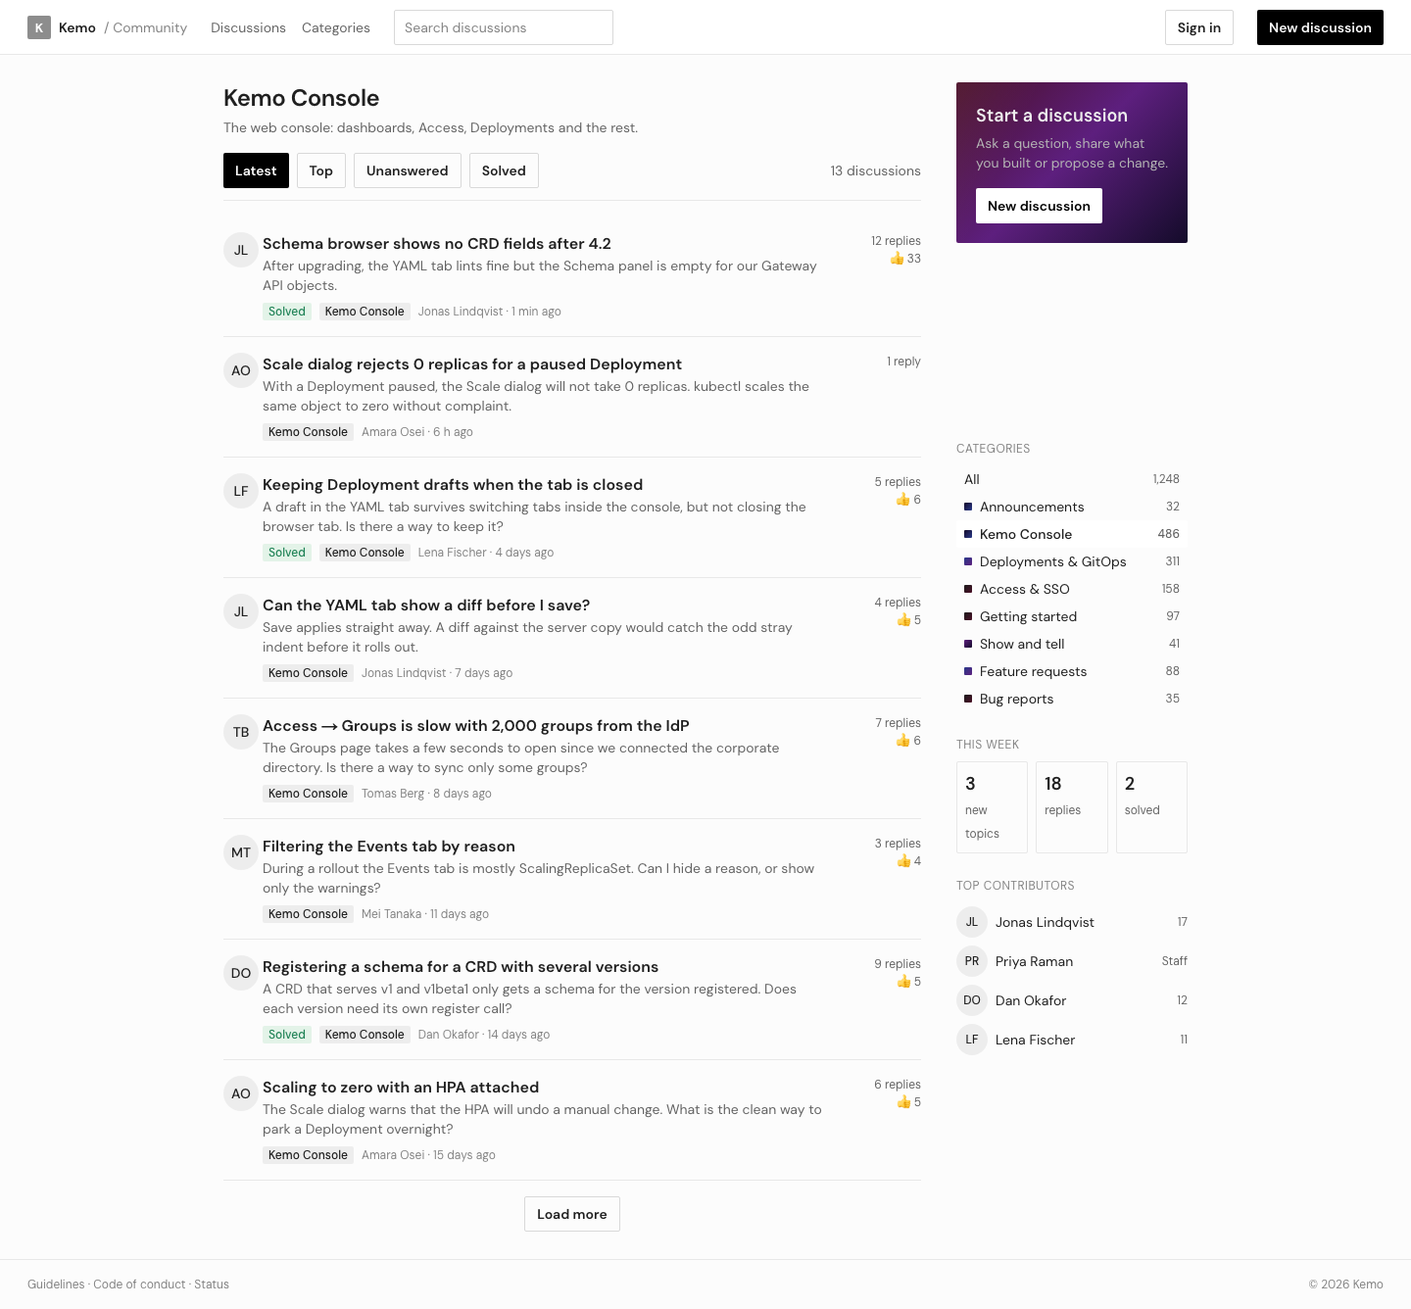
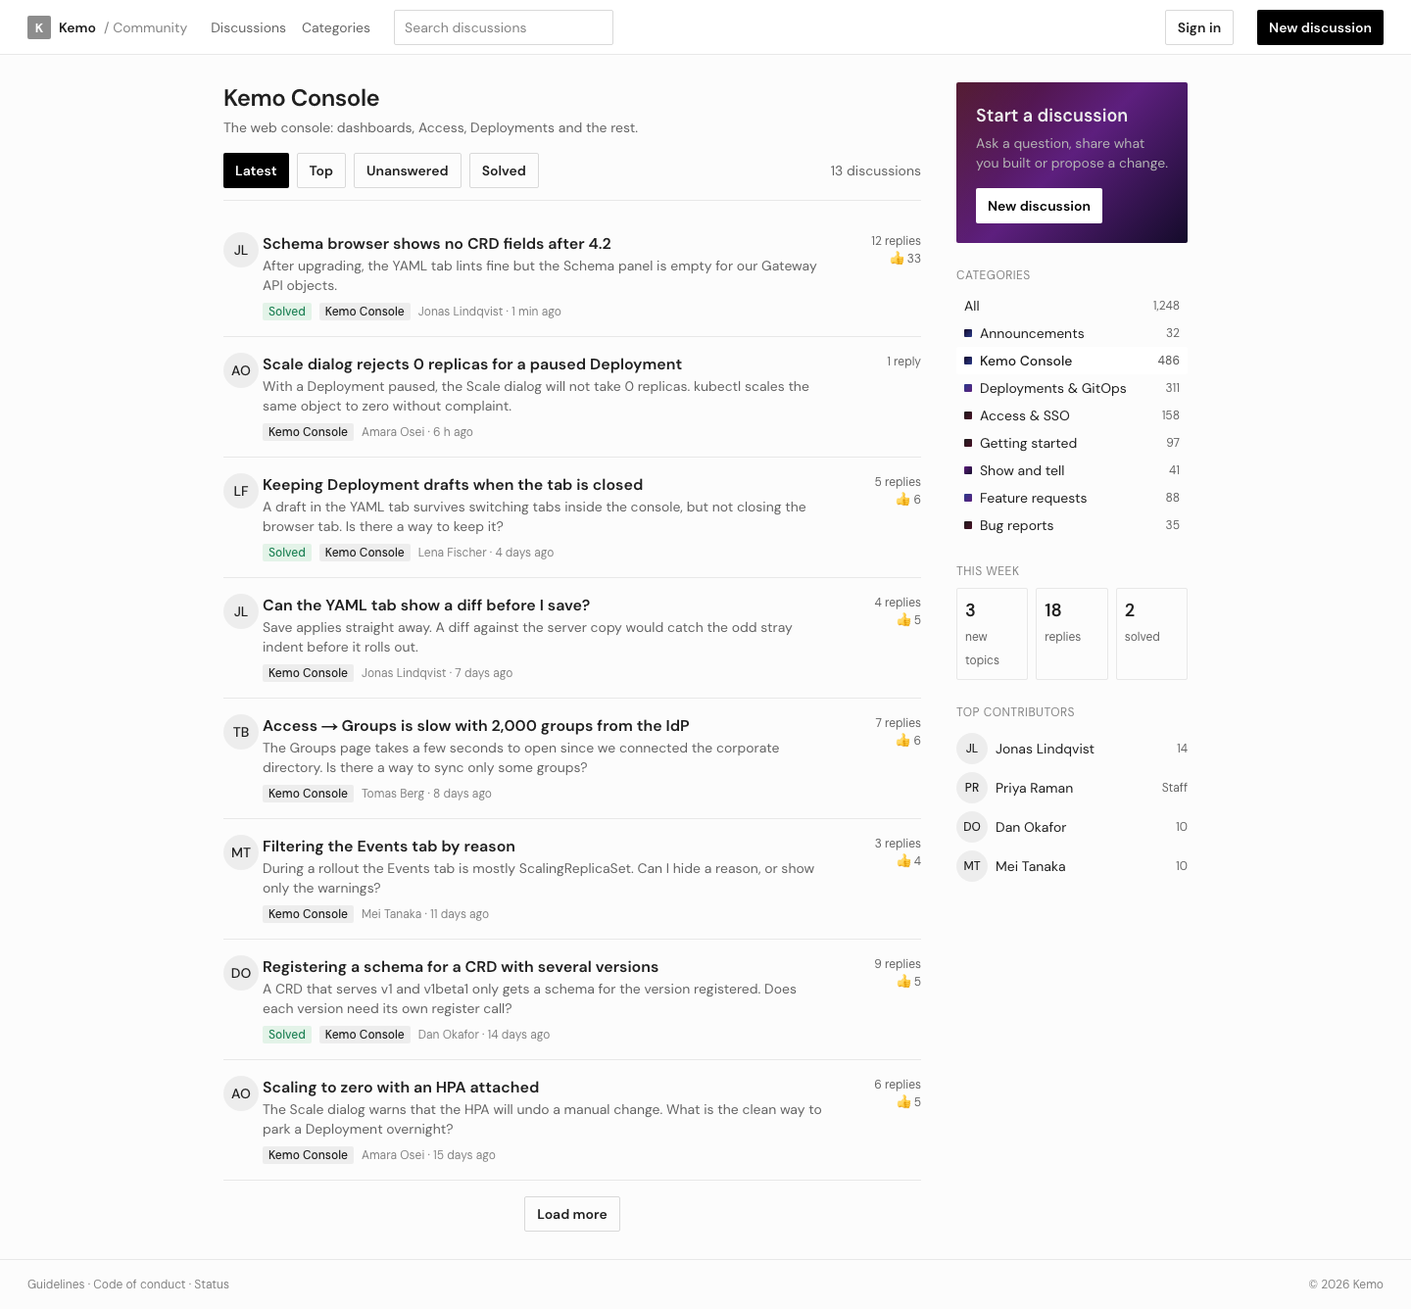
fix(preview): forum final-review fixes, e2e and gallery

Changed region(s): [[0.6875, 0.2455, 0.7812, 0.7979], [0.8125, 0.399, 0.8438, 0.4296]]

diff --git a/apps/preview/e2e/forum.spec.ts b/apps/preview/e2e/forum.spec.ts
@@ -319,6 +319,16 @@ test.describe('forum routes', () => {
     await expect(main.getByRole('article').first()).toContainText('#11')
   })
 
+  test('boards: a link to a post past the first page opens on its page', async ({ page }) => {
+    await page.goto(`/forum/boards/t/${THREAD}#post-p12`)
+    await hydrated(page)
+    const main = page.getByRole('main')
+
+    await expect(main.locator('#post-p12')).toBeVisible()
+    await expect(main.locator('#post-p12')).toBeInViewport()
+    await expect(main.getByText('Posts 11–13 of 13')).toHaveCount(2)
+  })
+
   for (const variant of VARIANTS) {
     test(`${variant}: a reply appears and is announced`, async ({ page }) => {
       await page.goto(`/forum/${variant}/t/${THREAD}`)
@@ -334,18 +344,16 @@ test.describe('forum routes', () => {
       await expect(main.getByRole('status').filter({ hasText: replyPosted })).toBeVisible()
       await expect(composer).toHaveValue('')
       if (variant === 'boards') {
-        // The fourteenth post starts the second page.
-        await expect(main.getByText('Posts 1–10 of 14')).toHaveCount(2)
-        await main
-          .getByRole('navigation', { name: 'Posts' })
-          .first()
-          .getByRole('button', pageButton(2))
-          .click()
+        // The fourteenth post starts the second page, and the thread moves there by itself.
+        await expect(main.getByText('Posts 11–14 of 14')).toHaveCount(2)
       }
       const post = main.getByRole('article').filter({ hasText: text })
       await expect(post).toBeVisible()
       await expect(post).toContainText('just now')
-      if (variant === 'boards') await expect(post).toContainText('#14')
+      if (variant === 'boards') {
+        await expect(post).toContainText('#14')
+        await expect(post).toBeInViewport()
+      }
     })
   }
 
@@ -359,8 +367,9 @@ test.describe('forum routes', () => {
       .getByRole('listitem')
       .filter({ has: page.locator('#post-p2') })
     const text = 'It was 4.2.1 here as well, on two clusters.'
+    const opener = dan.getByRole('button', { name: 'Reply to Dan Okafor', exact: true })
 
-    await dan.getByRole('button', { name: 'Reply', exact: true }).first().click()
+    await opener.click()
     const inline = thread.getByRole('textbox', { name: 'Reply' })
     await expect(inline).toBeFocused()
     await inline.fill(text)
@@ -370,6 +379,9 @@ test.describe('forum routes', () => {
     const nested = dan.getByRole('listitem').filter({ hasText: text })
     await expect(nested).toBeVisible()
     await expect(nested).toContainText('just now')
+    // The composer is gone, so the page announces the reply and focus goes back to "Reply".
+    await expect(main.getByRole('status').filter({ hasText: 'Reply posted.' })).toHaveCount(1)
+    await expect(opener).toBeFocused()
   })
 
   test('discussions: a reaction from the menu', async ({ page }) => {
@@ -415,6 +427,24 @@ test.describe('forum routes', () => {
     await expect(
       answers.locator('#post-p4').getByRole('button', { name: 'Accept this answer' }),
     ).toBeVisible()
+  })
+
+  test('qa: the asker takes the accepted mark back', async ({ page }) => {
+    await page.goto(`/forum/qa/t/${THREAD}`)
+    await hydrated(page)
+    const main = page.getByRole('main')
+    const header = main.getByRole('heading', { level: 1 }).locator('..')
+    const priya = main.locator('#post-p4')
+    const accepted = priya.getByRole('button', { name: 'Accepted answer' })
+    await expect(header.getByText('Solved', { exact: true })).toHaveCount(1)
+    await expect(accepted).toHaveAttribute('aria-pressed', 'true')
+
+    await accepted.click()
+
+    const accept = priya.getByRole('button', { name: 'Accept this answer' })
+    await expect(accept).toBeVisible()
+    await expect(accept).toHaveAttribute('aria-pressed', 'false')
+    await expect(header.getByText('Solved', { exact: true })).toHaveCount(0)
   })
 
   test('boards: Watch toggles', async ({ page }) => {
@@ -503,6 +533,37 @@ test.describe('forum routes', () => {
       }
     })
   }
+
+  test('boards: the top-bar search on a topic page keeps the demo state', async ({ page }) => {
+    const title = 'Searching from a topic keeps this one'
+    await page.goto('/forum/boards/new')
+    await hydrated(page)
+    const main = page.getByRole('main')
+    await main.getByRole('textbox', { name: 'Title' }).fill(title)
+    await main.getByRole('combobox', { name: 'Category' }).click()
+    await page.getByRole('option', { name: 'Kemo Console', exact: true }).click()
+    await main
+      .getByRole('textbox', { name: 'Body' })
+      .fill('Written by the e2e suite to check that a search keeps the new topic.')
+    await main.getByRole('button', { name: 'Post topic', exact: true }).click()
+    await expect(page.getByRole('heading', { level: 1 })).toHaveText(title)
+
+    const field = page.getByRole('banner').getByRole('searchbox', { name: 'Search topics' })
+    await field.fill('crd')
+    await field.press('Enter')
+
+    await expect(page).toHaveURL(/\/forum\/boards\?q=crd$/)
+    const results = main
+      .locator('section')
+      .filter({ has: page.getByRole('heading', { level: 2, name: /results? for “crd”/ }) })
+    await expect(results.getByRole('link', { name: SAMPLE })).toBeVisible()
+
+    // A full page load would have reset the demo: the new topic is still there.
+    await page.getByRole('banner').getByRole('link', { name: /Kemo/ }).first().click()
+    await expect(page).toHaveURL(/\/forum\/boards$/)
+    const latest = main.getByRole('region', { name: 'Latest' }).getByRole('article')
+    await expect(latest.first().getByRole('heading')).toHaveText(title)
+  })
 
   test('a failed reply keeps its text', async ({ page }) => {
     await page.goto(`/forum/boards/t/${THREAD}`)

diff --git a/apps/preview/src/components/forum/forum-demo.tsx b/apps/preview/src/components/forum/forum-demo.tsx
@@ -44,8 +44,17 @@ function ForumFooter({ variant }: Readonly<{ variant: ForumVariant }>) {
   ))
 }
 
-/** What every forum page of `variant` shares: the brand, the hrefs, the clock and the viewer. */
-function chrome(variant: ForumVariant, page: ForumPage, state: ForumState): ForumChromeProps {
+/**
+ * What every forum page of `variant` shares: the brand, the hrefs, the clock and the viewer.
+ * `navigate` is the router's: the top bar's search on a topic or composer page then moves on
+ * client-side, so the demo's state (held above the pages) survives the trip.
+ */
+function chrome(
+  variant: ForumVariant,
+  page: ForumPage,
+  state: ForumState,
+  navigate: (href: string) => void,
+): ForumChromeProps {
   const indexHref = indexHrefOf(variant)
   const nav: NonNullable<ForumChromeProps['nav']> = [
     { label: vocabulary[variant].sectionLabel, href: indexHref, current: page === 'front' },
@@ -60,6 +69,8 @@ function chrome(variant: ForumVariant, page: ForumPage, state: ForumState): Foru
     brand: 'Kemo',
     nav,
     footer: <ForumFooter variant={variant} />,
+    // The footer's year from the demo's clock, never the wall clock's.
+    year: new Date(state.now).getUTCFullYear(),
     now: state.now,
     viewer: state.viewer,
     linkComponent: NextLink,
@@ -70,6 +81,7 @@ function chrome(variant: ForumVariant, page: ForumPage, state: ForumState): Foru
     composerHref: (category) =>
       category ? `${indexHref}/new?category=${category.id}` : `${indexHref}/new`,
     searchHref: (query) => `${indexHref}?q=${encodeURIComponent(query)}`,
+    navigate,
   }
 }
 
@@ -79,9 +91,10 @@ export function ForumIndexDemo({
   query,
 }: Readonly<{ variant: ForumVariant; query?: string }>) {
   const { state, topics } = useForumDemo()
+  const router = useRouter()
   return (
     <ForumIndexPage
-      {...chrome(variant, 'front', state)}
+      {...chrome(variant, 'front', state, router.push)}
       title="Kemo Community"
       description="Questions, answers and release talk from the people who run Kemo Console."
       categories={state.categories}
@@ -98,11 +111,12 @@ export function ForumCategoryDemo({
   categoryId,
 }: Readonly<{ variant: ForumVariant; categoryId: string }>) {
   const { state, topics } = useForumDemo()
+  const router = useRouter()
   const category = state.categories.find((c) => c.id === categoryId)
   if (!category) notFound()
   return (
     <ForumCategoryPage
-      {...chrome(variant, 'category', state)}
+      {...chrome(variant, 'category', state, router.push)}
       category={category}
       categories={state.categories}
       topics={topics}
@@ -123,6 +137,7 @@ export function ForumTopicDemo({
   slug,
 }: Readonly<{ variant: ForumVariant; slug: string }>) {
   const { state, topics, reply, react, vote, accept, follow } = useForumDemo()
+  const router = useRouter()
   const hydrated = useHydrated()
   const topic = state.topics[slug]
   const category = topic && state.categories.find((c) => c.id === topic.categoryId)
@@ -135,7 +150,7 @@ export function ForumTopicDemo({
 
   return (
     <ForumTopicPage
-      {...chrome(variant, 'topic', state)}
+      {...chrome(variant, 'topic', state, router.push)}
       topic={topic}
       category={category}
       related={topics.filter((t) => t.slug !== slug)}
@@ -159,7 +174,7 @@ export function ForumComposerDemo({
   const category = state.categories.find((c) => c.id === categoryId)
   return (
     <ForumComposerPage
-      {...chrome(variant, 'composer', state)}
+      {...chrome(variant, 'composer', state, router.push)}
       categories={state.categories}
       defaultCategoryId={category?.id}
       cancelHref={category ? `${indexHrefOf(variant)}/c/${category.id}` : indexHrefOf(variant)}

diff --git a/apps/preview/src/lib/forum-reducer.test.ts b/apps/preview/src/lib/forum-reducer.test.ts
@@ -198,8 +198,32 @@ describe('forumReducer', () => {
     const first = run(initialState, { type: 'accept', slug: UNSOLVED, postId: answer })
     expect(isSolved(topicOf(first, UNSOLVED))).toBe(true)
     expect(categoryOf(first, 'kemo-console').solvedCount).toBe(solved + 1)
+  })
+
+  it('accept on the accepted answer takes the mark back and the solved count down', () => {
+    const solved = categoryOf(initialState, 'kemo-console').solvedCount
+    const answer = topicOf(initialState, UNSOLVED).posts![1]!.id
+    const first = run(initialState, { type: 'accept', slug: UNSOLVED, postId: answer })
     const again = run(first, { type: 'accept', slug: UNSOLVED, postId: answer })
-    expect(categoryOf(again, 'kemo-console').solvedCount).toBe(solved + 1)
+    expect(postOf(again, UNSOLVED, answer).accepted).toBe(false)
+    expect(isSolved(topicOf(again, UNSOLVED))).toBe(false)
+    expect(categoryOf(again, 'kemo-console').solvedCount).toBe(solved)
+
+    const cleared = run(initialState, { type: 'accept', slug: SAMPLE, postId: 'p4' })
+    expect(isSolved(topicOf(cleared, SAMPLE))).toBe(false)
+    expect(categoryOf(cleared, 'kemo-console').solvedCount).toBe(solved - 1)
+    expect(Date.parse(cleared.now)).toBeGreaterThan(Date.parse(initialState.now))
+  })
+
+  it('accept never takes the solved count below zero', () => {
+    const empty: ForumState = {
+      ...initialState,
+      categories: initialState.categories.map((c) =>
+        c.id === 'kemo-console' ? { ...c, solvedCount: 0 } : c,
+      ),
+    }
+    const cleared = run(empty, { type: 'accept', slug: SAMPLE, postId: 'p4' })
+    expect(categoryOf(cleared, 'kemo-console').solvedCount).toBe(0)
   })
 
   it('accept leaves the original post and nested replies alone', () => {

diff --git a/apps/preview/src/lib/forum-reducer.ts b/apps/preview/src/lib/forum-reducer.ts
@@ -37,7 +37,7 @@ export type ForumAction =
   | { type: 'react'; slug: string; postId: string; emoji: ReactionEmoji }
   /** The viewer's vote on a post; on the first post, the topic's vote. */
   | { type: 'vote'; slug: string; postId: string; direction: VoteDirection }
-  /** Mark `postId` as the accepted answer, unmarking any other. */
+  /** Mark `postId` as the accepted answer, unmarking any other; unmark it when it already is. */
   | { type: 'accept'; slug: string; postId: string }
   | { type: 'follow'; slug: string; following: boolean }
   | { type: 'create'; title: string; categoryId: string; tags: string[]; body: string }
@@ -243,7 +243,21 @@ export function forumReducer(state: ForumState, action: ForumAction): ForumState
       if (!topic.posts || !post || post === topic.posts[0] || post.parentId !== undefined) {
         return state
       }
-      if (post.accepted) return state
+      // Pressing the pressed "Accepted answer" again takes the mark back: the topic is open again.
+      if (post.accepted) {
+        return changed(
+          {
+            ...topic,
+            posts: topic.posts.map((p) => (p === post ? { ...p, accepted: false } : p)),
+          },
+          {
+            categories: updateCategory(state.categories, topic.categoryId, (c) => ({
+              ...c,
+              solvedCount: Math.max(0, c.solvedCount - 1),
+            })),
+          },
+        )
+      }
       const wasSolved = isSolved(topic)
       return changed(
         {

diff --git a/apps/preview/src/app/forum/[variant]/page.tsx b/apps/preview/src/app/forum/[variant]/page.tsx
@@ -27,5 +27,8 @@ export async function generateMetadata({ params }: ForumIndexRouteProps): Promis
 export default async function ForumIndexRoute({ params, searchParams }: ForumIndexRouteProps) {
   const variant = await resolveVariant(params)
   const { q } = await searchParams
-  return <ForumIndexDemo variant={variant} query={typeof q === 'string' ? q : undefined} />
+  const query = typeof q === 'string' ? q : undefined
+  // `?q=` only seeds the page's search (`defaultQuery`), so a new `?q=` (or none, through the brand
+  // link from a search) starts the page afresh rather than keeping the last results.
+  return <ForumIndexDemo key={query ?? ''} variant={variant} query={query} />
 }

diff --git a/docs/forum-pages.md b/docs/forum-pages.md
@@ -93,8 +93,10 @@ What the pages derive rather than read:
   solved flag, so a list row that should read "Solved" needs at least its accepted post.
 - **Counts**: when a topic carries `posts`, its reply count is `posts.length - 1`, its reaction
   total the sum over its posts and its participants their authors; without `posts` the pages use
-  `replyCount`, `reactionTotal` and `participants`. A Q&A answer count is the top-level posts after
-  the question.
+  `replyCount`, `reactionTotal` and `participants`. A Q&A answer count is the answers the topic
+  page lists (`groupReplies`): the top-level posts after the question, and any post whose parent is
+  missing. Top contributors count each post's author, and a topic's author only when it carries no
+  posts (with posts, the first post is the topic's own).
 - **Times**: every relative time ("just now", "12 min ago", "3 h ago", "yesterday", "5 days ago",
   then the date after 30 days) is computed from the required `now`, never from the wall clock, so
   the server and the browser print the same text. Each `<time>` carries the absolute UTC time in its
@@ -124,34 +126,45 @@ How the pages behave:
   submitting sets the query, a topic matches when every word appears in its title, excerpt, tags or
   category label (any case), and the results replace the page's body under "{n} results for “q”"
   with a Clear button that returns focus to the field; no match shows "No topics match “q”" (or
-  discussions, or questions). A category page searches its own topics in Discussions and Q&A, and
-  every topic in Boards (whose results show each topic's category). Boards and Discussions put the
-  field in the top bar from `md` and above the list below it; Q&A in its hero, and above the list on
-  its category page. The query is page state: pass `query` and `onQueryChange` to control it, or
+  discussions, or questions). Results are ordered by latest activity, pinned or not. Search on a
+  category page covers that category only, in every variation. Boards and Discussions put the field
+  in the top bar from `md` and above the list below it; Q&A in its hero, and above the list on its
+  category page. The query is page state: pass `query` and `onQueryChange` to control it, or
   `defaultQuery` to start from one. `searchHref(query)` is a link into a search: on the Boards and
   Discussions topic and composer pages the top bar's field navigates to it, and the Q&A topic rail's
-  "Hot tags" link through it; without it both are absent.
+  "Hot tags" link through it; without it both are absent. That navigation calls
+  `navigate(searchHref(query))` when the host passes `navigate` (a client-side router's `push`, so
+  state held above the pages survives), and is a full page load otherwise.
 - **Paging**: the Boards and Q&A category pages show 10 rows a page with a pager (a filter change
-  returns to page 1), the Boards thread 10 posts a page under "Posts 1–10 of 13" above and below,
-  and the Discussions feed 8 rows and "Load more".
+  returns to page 1), the Boards thread 10 posts a page under "Posts 1–10 of 13" above and below
+  (a topic without posts shows neither line, only "No replies yet."), and the Discussions feed 8
+  rows and "Load more".
 - **Replies**: `onReply({ body, parentId?, quoteOf? })`. The composer takes 2 to 5,000 characters of
   plain text (paragraphs on blank lines, never rendered as HTML); while it waits the button spins,
   when it resolves the field clears and a polite status says "Reply posted." ("Answer posted." in
-  Q&A), and when it rejects the `Error`'s message shows and the text stays. The page does not add
-  the post: the host passes the topic back with it. In Boards the new post is the last one, so on a
-  thread longer than a page it lands on the last page. Boards' "Quote" attaches a removable quote
-  and sends `quoteOf` (the host adds the `quote` to the new post); Discussions' "Reply" opens an
-  inline composer that posts with the top-level reply's id; Q&A's "Add a comment" opens a one-line
-  field (1 to 600 characters) and announces "Comment posted.".
+  Q&A), and when it rejects the `Error`'s message shows and the text stays (a comment's too). The
+  page does not add the post: the host passes the topic back with it. In Boards the new post is the
+  last one: once the topic comes back longer, the thread moves to its last page and scrolls the new
+  post into view, whichever page the reply was sent from. Boards' "Quote" attaches a removable quote
+  and sends `quoteOf` (the host adds the `quote` to the new post); Discussions' "Reply" (named
+  "Reply to {author}") opens an inline composer that posts with the top-level reply's id; Q&A's "Add
+  a comment" opens a one-line field (1 to 600 characters). Both inline composers close once they
+  post, so the page announces "Reply posted." or "Comment posted." in a polite live region of its
+  own, and focus goes back to the button that opened the composer, on Cancel too.
+- **Links to posts**: every post is anchored as `#post-{id}`, and "Share" copies that address. In
+  Boards a link to a post past the first page opens the thread on that post's page, scrolled to it.
 - **Reactions**: `onReact(postId, emoji)` toggles the viewer's reaction; pills carry the count in
   their name ("👍 4, react") and `aria-pressed` from `reacted`. Discussions shows every emoji with a
-  count and a "+" menu of the five; Boards a single 👍 count; Q&A has votes instead.
+  count and a "+" menu of the five; Boards a single 👍 count (shown at 0 only with `onReact`, as
+  the button for the first one); Q&A has votes instead.
 - **Votes** (Q&A): `onVote(postId, 'up' | 'down' | null)`; pressing the pressed arrow again sends
-  `null`. The question's arrows show `topic.votes` and send the first post's id.
+  `null`. The question's arrows show `topic.votes` and send the first post's id. While a vote saves
+  the arrows stay focusable (`aria-disabled`) and a second press is ignored.
 - **Accept**: `onAcceptAnswer(postId)` turns every Q&A answer's check into a button ("Accept this
   answer" / "Accepted answer"). The host decides who may accept: pass it only when the viewer is the
-  asker or staff. The accepted answer leads the answers in Q&A and the replies in Discussions, and
-  is tinted in place in Boards.
+  asker or staff. Pressing the pressed "Accepted answer" calls it again with the same id; the
+  preview takes the mark back then, which reopens the topic. The accepted answer leads the answers
+  in Q&A and the replies in Discussions, and is tinted in place in Boards.
 - **Follow**: `onFollow(topicId, following)` toggles "Watch" / "Watching" (Boards), "Subscribe" /
   "Subscribed ✓" (Discussions) or "Follow" / "Following" (Q&A), shown from `topic.following`.
 - **Composer**: Title ("Question" in Q&A, with a hint to end on a question mark) of 10 to 120
@@ -210,7 +223,14 @@ const chrome = (now: string, viewer?: ForumUser): ForumChromeProps => ({
 visually hidden `h1`, and Q&A's hero says "Ask the community". `memberCount` fills the third Boards
 stat. `nav` lists the top bar's links (shown from `md`), `section` follows the brand ("Community" by
 default; hidden below `sm`), `footer` fills the left of the footer row and `year` pins its year in a
-statically generated page.
+statically generated page. `navigate(href)` takes the top bar's search to `searchHref(query)` on the
+pages without results of their own (the topic and composer pages); without it the browser loads the
+address. A Next.js host passes the router's `push`:
+
+```tsx
+const router = useRouter()
+<ForumTopicPage {...chrome(now, viewer)} navigate={router.push} topic={topic} category={category} />
+```
 
 Not included: Markdown or rich-text editing, sign-in and sessions, member profiles, moderation
 (edit, delete, flag, lock, move), notifications, private messages, a search index or server paging,
@@ -227,7 +247,9 @@ is a reducer (`apps/preview/src/lib/forum-reducer.ts`) held by `ForumDemoShell`
 `apps/preview/src/app/forum/layout.tsx`, above every forum page and variation, so a reply or a new
 topic survives a trip to another page or variation (a reload starts over). Its clock never reads
 the wall clock: `now` starts at the seed's fixed instant, moves 3 s with every change, so a new post
-reads "just now", and 30 s every 30 s while the page is visible, so the ages move. Each save waits
+reads "just now", and 30 s every 30 s while the page is visible, so the ages move; the footer's
+year comes from it too. The chrome passes the router's `push` as `navigate`, so a search from a
+topic or composer page keeps the state. Each save waits
 300 ms, and a reply, comment or topic whose text contains "fail" is rejected with "The forum could
 not save that. Try again.", so the error states can be tried. The viewer is Jonas Lindqvist, the
 sample thread's author, so Accept is offered there and his replies carry the "Author" badge in
